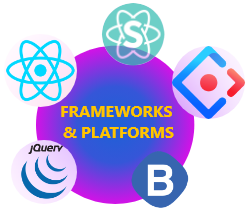
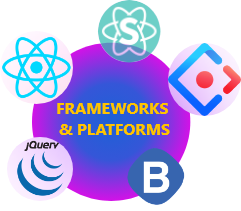
done skill

diff --git a/src/containers/layout/content/info/Skill.js b/src/containers/layout/content/info/Skill.js
@@ -1,7 +1,9 @@
 import React from 'react';
 import ProgrammingLanguageInfo from './image/ProgrammingLanguages.png';
-import Frameworks from './image/Frameworks.png';
+import Frameworks from './image/FrameWorks.png';
+import Databases from './image/Database.png';
 
+import { Grid,  } from 'semantic-ui-react';
 import './index.scss';
 class Work extends React.Component {
     constructor(props) {
@@ -11,12 +13,58 @@ class Work extends React.Component {
 
     render() {
         return (
-            <div className="cv-content-profile__sumary">
-                <h2 className="pf-sumary__title">Skill</h2>
+            <div className="cv-content-profile__skill">
+                <h2 className="pf-skill__title">Skill</h2>
                 <div className="pf-skill__hardskill">
-                    <img src={ProgrammingLanguageInfo} alt="Programming languages" />
-                    <img src={Frameworks} alt="Frameworks" />
-                    <span className="pf-sumary__description"></span>
+                    
+                    <Grid padded columns={1} relaxed>
+                        <Grid.Row columns={2} className="content-block_language">
+                            <Grid.Column className="img-description"
+                                mobile={16} tablet={5} computer={5}
+                                >
+                                    <img src={ProgrammingLanguageInfo} alt="Programming languages" />
+                            </Grid.Column>
+                            <Grid.Column className="text-description"
+                                mobile={16} tablet={11} computer={11}
+                                >
+                                       <div>- Đã trải qua 7 học kỳ học ngôn ngữ lập trình <strong>JAVA</strong> tại trường, tự tin sử dụng tốt ngôn ngữ này.</div>
+                                       <div>- Biết sử dụng ngôn ngữ lập trình <strong>HTML</strong>, hiểu được cấu trúc ngữ nghĩa của các thẻ HTML.</div>
+                                       <div>- Sử dụng tốt <strong>CSS</strong> trong quá trình làm đẹp trang web, thành thạo các <strong>CSS preprocessor</strong> như: SCSS, SASS, LESS.</div>
+                                       <div>- Có hiểu biết về ngôn ngữ <strong>Javascript</strong>, và đây là ngôn ngữ mà tôi rất thích.</div>
+                            </Grid.Column>
+                        </Grid.Row>
+
+                        <Grid.Row columns={2} className="content-block_language">
+                            <Grid.Column className="img-description"
+                                mobile={16} tablet={5} computer={5}
+                                >
+                                    <img src={Frameworks} alt="Frameworks" />
+                            </Grid.Column>
+                            <Grid.Column className="text-description"
+                                mobile={16} tablet={11} computer={11}
+                                >
+                                       <div>- Sử dụng <strong>ReactJS</strong> trong 4 tháng liên tiếp với dự án thật. </div>
+                                       <div>- Sử dụng thành thạo các thư viện hỗ trợ UI/UX cho React như <strong>Ant Design</strong>, <strong> React semantic</strong>, <strong>React Bootstrap</strong>.</div>
+                                       <div>- Thường xuyên sử dụng các thư viện bên thứ ba như <strong>Axios</strong>, <strong>Fetch API</strong>, <strong>React router</strong>, <strong>Redux</strong>, <strong>Redux thunk</strong>...</div>
+                            </Grid.Column>
+                        </Grid.Row>
+
+                        <Grid.Row columns={2} className="content-block_language">
+                            <Grid.Column className="img-description"
+                                mobile={16} tablet={5} computer={5}
+                                >
+                                    <img src={Databases} alt="Databases" />
+                            </Grid.Column>
+                            <Grid.Column className="text-description"
+                                mobile={16} tablet={11} computer={11}
+                                >
+                                       <div>- Sử dụng thành thạo hệ quản trị cơ sở dữ liệu <strong>Microsoft SQL Server</strong>.</div>
+                                       <div>- Am hiểu mức độ cơ bản về MySql thông qua các đồ án môn học, và các website wordpress.</div>
+                            </Grid.Column>
+                        </Grid.Row>
+
+                    </Grid>
+
                 </div>
             </div>
         );

diff --git a/src/containers/layout/content/index.js b/src/containers/layout/content/index.js
@@ -27,7 +27,7 @@ class ProfileContent extends React.Component {
                     <Grid.Column 
                         mobile={16} tablet={16} computer={16}
                         >
-                        <Education/>
+                        <Skill/>
                         
                     </Grid.Column>
                 </Grid.Row>
@@ -35,7 +35,7 @@ class ProfileContent extends React.Component {
                     <Grid.Column 
                         mobile={16} tablet={16} computer={16}
                         >
-                        <Skill/>
+                        <Education/>
                         
                     </Grid.Column>
                 </Grid.Row>

diff --git a/src/containers/layout/content/info/index.scss b/src/containers/layout/content/info/index.scss
@@ -16,3 +16,30 @@
         }
     }
 }
+
+.cv-content-profile__skill {
+    .pf-skill__title {
+        text-transform: uppercase;
+        border-bottom: 1px solid rgba(0, 0, 0, 0.12);
+        font-weight: bold;
+        .pf-skill__hardskill {
+        }
+    }
+}
+
+.content-block_language{
+    display: flex !important;
+
+    .text-description {
+       margin-top: 20px !important;
+    }
+}
+
+@media only screen and (max-width: 1080px) {
+    .content-block_language {
+      flex-direction: column;
+    }
+    .img-description {
+        text-align: center;
+    }
+}
